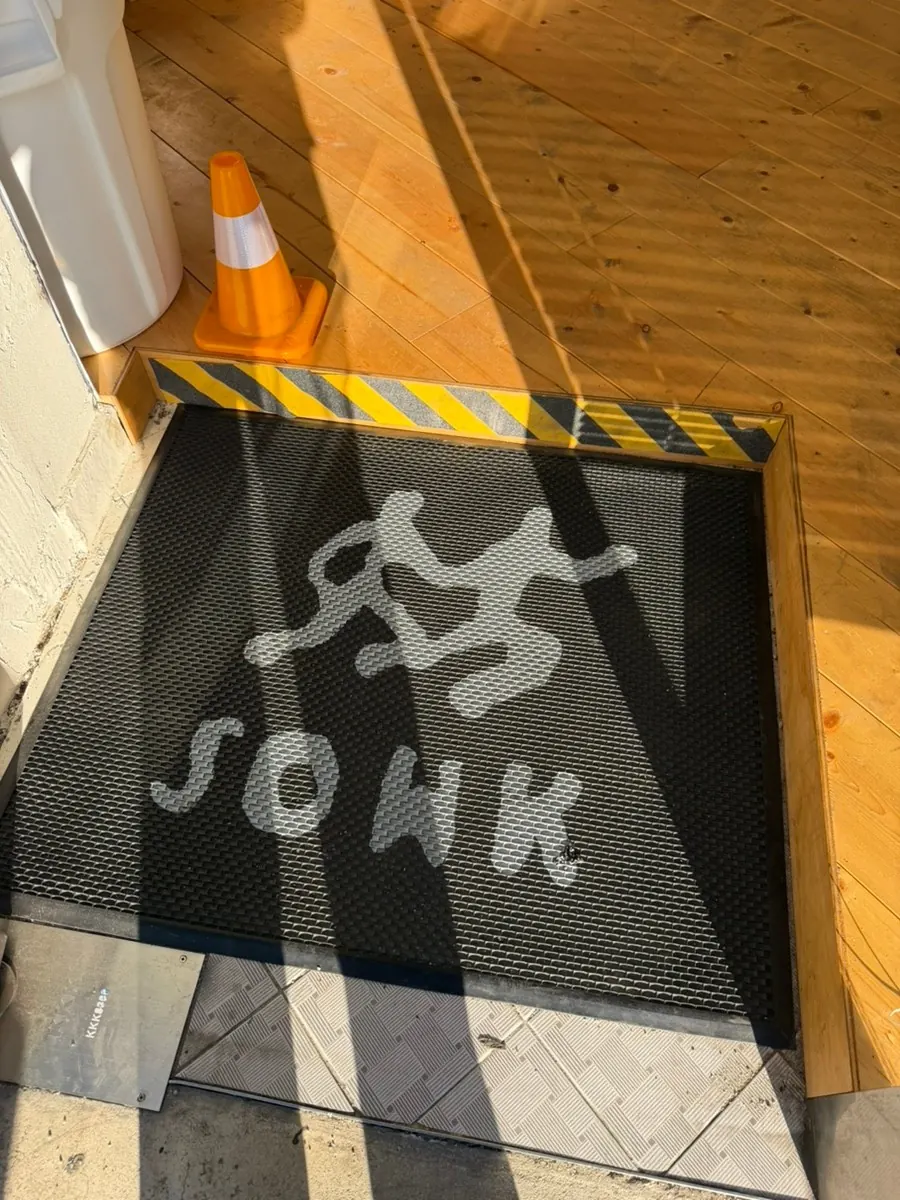
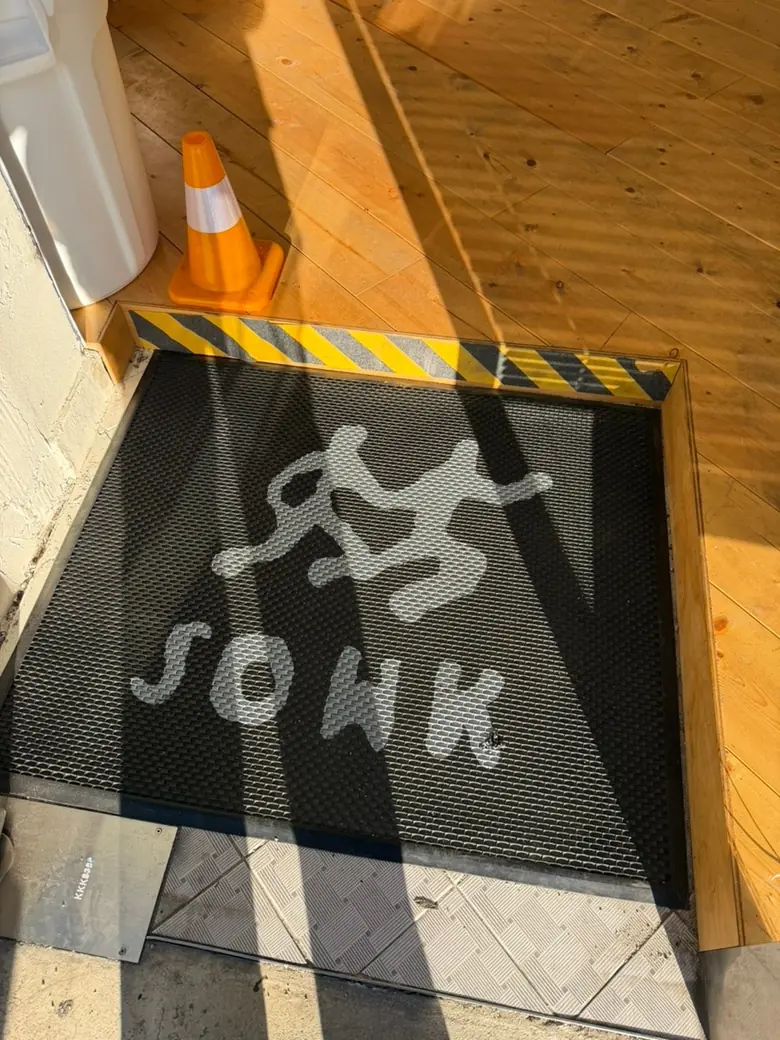
Add files via upload

diff --git a/index.html b/index.html
@@ -2,6 +2,7 @@
 <html lang="en">
 <head>
 <meta charset="utf-8" />
+<script>document.documentElement.classList.add('js')</script>
 <meta name="viewport" content="width=device-width, initial-scale=1" />
 <title>SOWK · Somewhere Only We Know | Coffee, Dessert &amp; Wine in Cheongju</title>
 <meta name="description" content="SOWK, a hideaway cafe by the back gate of Seowon University, Cheongju. Good coffee, sweet desserts and a glass of wine. 서원대 후문 카페 소크. 토~목 12:00~23:00, 금요일 휴무." />
@@ -92,8 +93,9 @@ h2{ font-weight:600; font-size:clamp(2rem, 6vw, 3.4rem); line-height:1.05; lette
 .hero{ padding:40px 0 72px; }
 .hero-grid{ display:grid; gap:36px; }
 .stack{ font-weight:600; font-size:clamp(3.4rem, 15vw, 7.2rem); line-height:.92; letter-spacing:-.035em; }
-.stack span{ display:block; opacity:0; transform:translateY(14px); transition:opacity .7s ease, transform .7s ease; }
-.stack span.on{ opacity:1; transform:none; }
+.stack span{ display:block; }
+.js .stack span{ opacity:0; transform:translateY(14px); transition:opacity .7s ease, transform .7s ease; }
+.js .stack span.on{ opacity:1; transform:none; }
 .stack{ font-weight:400; }
 .stack b{ font-weight:700; font-size:1.08em; line-height:0; }
 .hero .sub{ font-size:1.12rem; margin-top:28px; max-width:24em; }
@@ -191,10 +193,10 @@ h2{ font-weight:600; font-size:clamp(2rem, 6vw, 3.4rem); line-height:1.05; lette
 @media (min-width:900px){ .quick{ display:none; } }
 
 /* 나타나기 */
-.reveal{ opacity:0; transform:translateY(16px); transition:opacity .8s ease var(--d,0s), transform .8s ease var(--d,0s); }
-.reveal.in{ opacity:1; transform:none; }
+.js .reveal{ opacity:0; transform:translateY(16px); transition:opacity .8s ease var(--d,0s), transform .8s ease var(--d,0s); }
+.js .reveal.in{ opacity:1; transform:none; }
 @media (prefers-reduced-motion:reduce){
-  .reveal, .stack span{ opacity:1; transform:none; transition:none; }
+  .js .reveal, .js .stack span{ opacity:1; transform:none; transition:none; }
   html{ scroll-behavior:auto; }
 }
 </style>
@@ -308,7 +310,7 @@ h2{ font-weight:600; font-size:clamp(2rem, 6vw, 3.4rem); line-height:1.05; lette
         <figure class="reveal"><img src="sw-shelf.webp" alt="A metal bookshelf and a tall potted plant against a white wall" width="900" height="1200" loading="lazy" /><figcaption>A shelf of books</figcaption></figure>
         <figure class="reveal"><img src="sw-sun.webp" alt="A round table with chairs in strong afternoon sunlight through blinds" width="900" height="1125" loading="lazy" /><figcaption>Afternoon light</figcaption></figure>
         <figure class="reveal"><img src="sw-table.webp" alt="A long wooden table for groups under pendant lamps" width="900" height="1200" loading="lazy" /><figcaption>The long table</figcaption></figure>
-        <figure class="reveal"><img src="sw-mat.webp" alt="The entrance doormat printed with two running figures and the word SOWK" width="900" height="1200" loading="lazy" /><figcaption>Look for the mat at our door</figcaption></figure>
+        <figure class="reveal"><img src="sw-mat.webp" alt="The entrance doormat printed with two running figures and the word SOWK" width="780" height="1040" loading="lazy" /><figcaption>Look for the mat at our door</figcaption></figure>
       </div>
     </div>
   </section>

diff --git a/CHANGELOG.md b/CHANGELOG.md
@@ -1,5 +1,12 @@
 # CHANGELOG · SOWK 소크 (청주 서원대 후문 카페 · 커피 · 디저트 · 와인)
 
+## v0.1.3 · 2026-11-13 (코드 검토 반영 · 원문: 문서/검토지침/검토원문/sowk-sample_20261113_코드.md)
+- 다올 결정: 1 · 2 · 3 반영 · 4(동작 줄이기에서 애니 끔) 유지 · 5(커피 4번째 메뉴) 넣지 않고 확인 필요에 기록 · 6(메뉴판 이용 규정) 넣지 않음.
+- 1: no-JS 대비 → `<head>`에서 `html.js` 클래스 추가, 나타나기 효과 · 히어로 4줄의 투명 시작을 `.js` 아래로만.
+- 2: `sw-mat.webp` 166KB → 119KB(780×1040, img 속성도 맞춤).
+- 3: 확인 필요 임시 휴무 문구를 현행 한글로.
+- 새 글자 없음.
+
 ## v0.1.2 · 2026-11-13 (화면 검토 반영 · 원문: 문서/검토지침/검토원문/sowk-sample_20261113_화면.md)
 - 다올 결정: 1 반영 · 2(모바일 메뉴 없음) 그대로 · 3(PC 지도 폭) 그대로 · 4 반영 · 네이버 지도 링크 정상(다올 확인).
 - 1: 한글 단어 중간 줄바꿈 → `body{ word-break:keep-all; overflow-wrap:anywhere; }`.
@@ -34,7 +41,9 @@
 ### 확인 필요
 - **사진 출처**: 워터마크 없는 사진도 손님 리뷰 사진일 수 있음(폰 촬영 · 쟁반 구성). 사장님 계정 사진인지, 사용 동의가 되는지 확인.
 - **메뉴 구성**: 메뉴판 사진의 촬영 시점을 모름 → 지금 메뉴와 같은지 사장님 확인. 특히 Draft Beer(원문 "스텔라생맥주") · Financier 3종(피칸 · 초코헤이즐넛 · 무화과) · Mini Fruit Plate · Brie & Crackers.
-- **임시 휴무**: 달력 이미지에 금요일 외 추가 휴무일이 표시돼 있어 "Extra days off are posted on Instagram"으로 적음 → 실제로 인스타에 공지하는지 확인.
+- **커피 4번째 메뉴**: 메뉴판 COFFEE 마지막 줄이 흐려 이름을 못 읽음("아몬드크림라떼"로 추정, 확신 낮음) → 사이트에서 뺌. 사장님께 이름 확인 후 추가.
+- **이용 규정**: 메뉴판 하단 "1인 1음료 · 만석 시 이용 시간 제한 · 상업 촬영 사전 문의"는 시점을 몰라 넣지 않음. 사장님이 원하면 추가.
+- **임시 휴무**: 달력 이미지에 금요일 외 추가 휴무일이 표시돼 있어 "임시 휴무는 인스타그램에 공지"로 적음 → 실제로 인스타에 공지하는지 확인.
 - **영문 표기**: 주소 "1F, 30 Seowonnam-ro, Seowon-gu, Cheongju" · 정류장 "Cheongju Nonghyup stop"은 빌더 번역.
 - 로고 그림은 595px JPG를 따라 그린 것이라 원본 벡터 파일과 미세하게 다를 수 있음 → 원본 AI/SVG 있으면 교체.
 - 화면 미리보기는 배포 후 확인.
